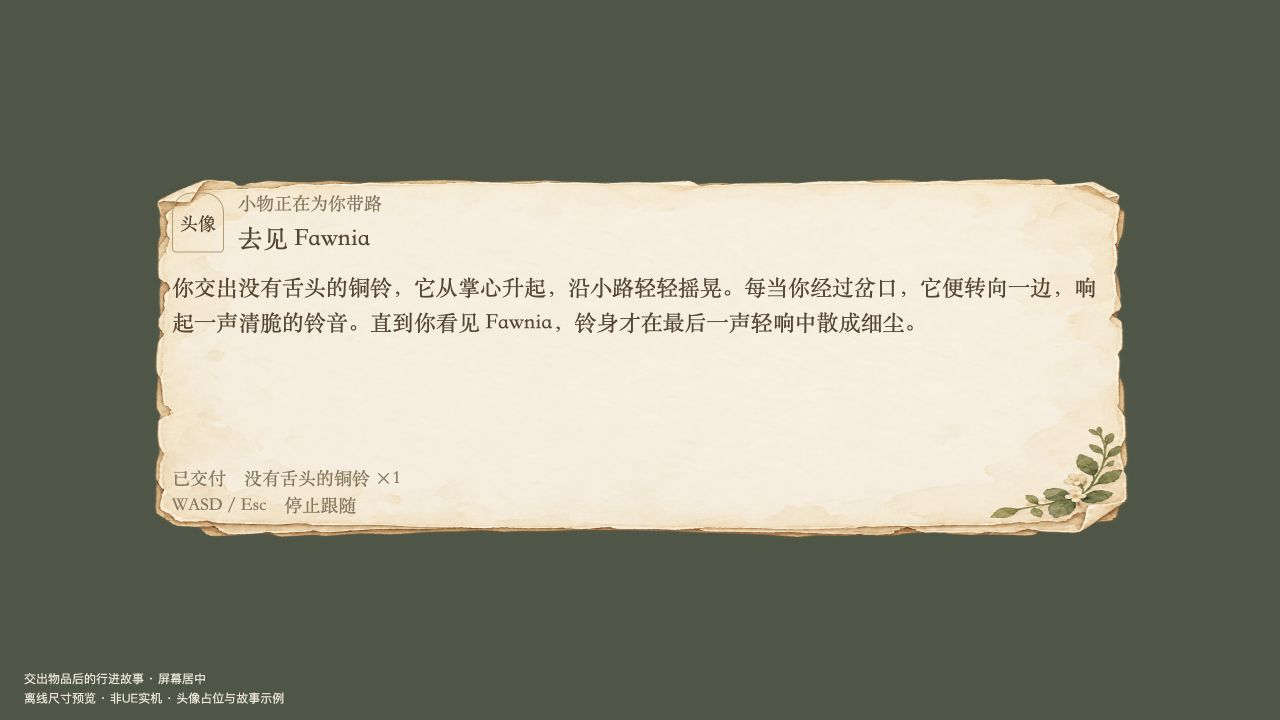
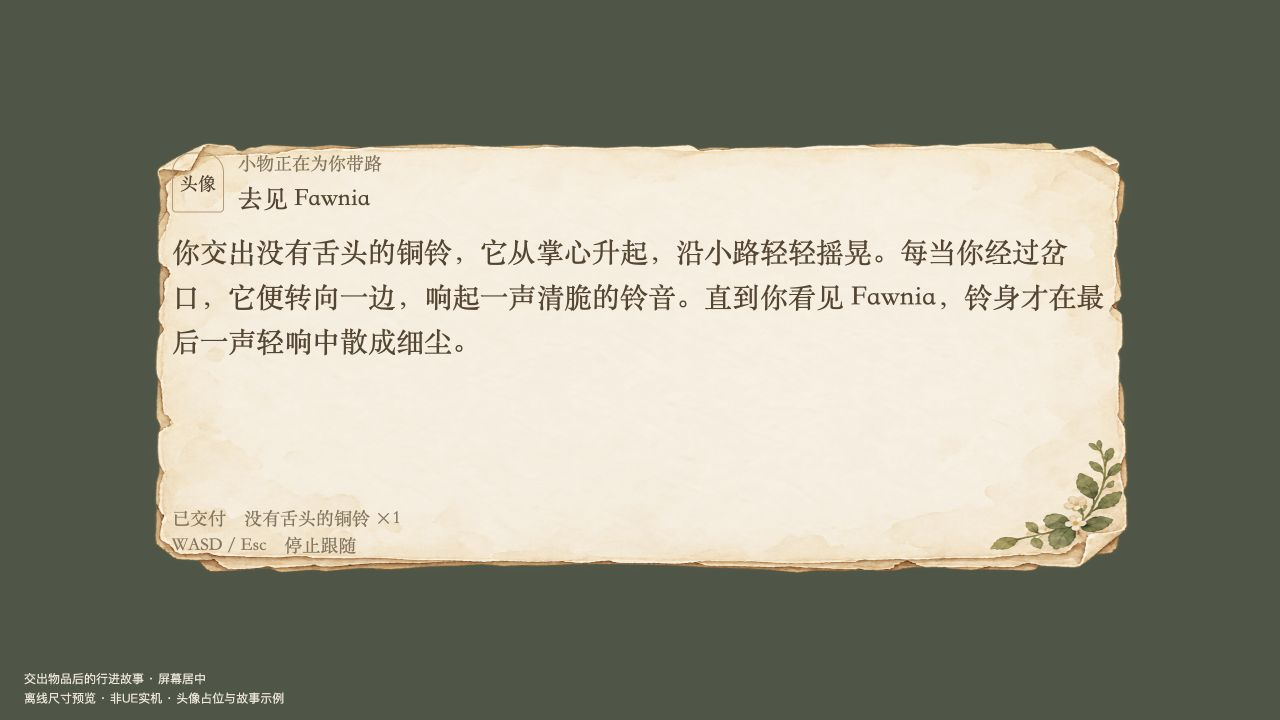
fix: enlarge centered item and travel narration to 28 point

Changed region(s): [[0.125, 0.1833, 0.9062, 0.4889], [0.0938, 0.5806, 0.9062, 0.7944], [0.125, 0.55, 0.1562, 0.6111]]

diff --git a/Docs/NPC_Travel_Centered_Preview.html b/Docs/NPC_Travel_Centered_Preview.html
@@ -1,1 +1,1 @@
-<!doctype html><html lang="zh-CN"><meta charset="utf-8"><meta name="viewport" content="width=device-width,initial-scale=1"><title>交付物品后的引路故事</title><style>*{box-sizing:border-box}body{margin:0;background:#4e5646;color:#57452f;font-family:"Songti SC",serif}.anchor{min-height:100dvh;padding:24px;display:flex;align-items:center;justify-content:center}.paper{width:min(1000px,100%);height:min(400px,calc(100dvh - 48px));padding:30px 32px 42px;background:url('../Content/UI/Textures/WoodlandPaper.png') center/100% 100%;display:flex;flex-direction:column}.head{display:flex;gap:14px;align-items:center;flex-shrink:0}.portrait{width:52px;height:60px;border:1px solid #ba9b70;border-radius:20px 20px 4px 4px;display:flex;align-items:center;justify-content:center;font-size:18px;flex-shrink:0}.role{font-size:18px;color:#87765b}.title{font-size:25px;margin-top:5px}.story{font-size:22px;line-height:1.6;overflow:auto;flex:1;min-height:0;margin:14px 0}.foot{font-size:18px;line-height:1.5;color:#87765b;flex-shrink:0}.note{position:absolute;bottom:12px;left:24px;color:#eee7d7;font:12px sans-serif;line-height:1.6;pointer-events:none}@media(max-width:747px){.paper{height:min(600px,calc(100dvh - 48px))}}</style><div class="anchor"><section class="paper"><header class="head"><div class="portrait">头像</div><div><div class="role">小物正在为你带路</div><div class="title">去见 Fawnia</div></div></header><p class="story">你交出没有舌头的铜铃，它从掌心升起，沿小路轻轻摇晃。每当你经过岔口，它便转向一边，响起一声清脆的铃音。直到你看见 Fawnia，铃身才在最后一声轻响中散成细尘。</p><footer class="foot">已交付　没有舌头的铜铃 ×1<br>WASD / Esc　停止跟随</footer></section></div><div class="note">交出物品后的行进故事 · 屏幕居中<br>离线尺寸预览 · 非UE实机 · 头像占位与故事示例</div></html>
+<!doctype html><html lang="zh-CN"><meta charset="utf-8"><meta name="viewport" content="width=device-width,initial-scale=1"><title>交付物品后的引路故事</title><style>*{box-sizing:border-box}body{margin:0;background:#4e5646;color:#57452f;font-family:"Songti SC",serif}.anchor{min-height:100dvh;padding:24px;display:flex;align-items:center;justify-content:center}.paper{width:min(1000px,100%);height:min(480px,calc(100dvh - 48px));padding:30px 32px 42px;background:url('../Content/UI/Textures/WoodlandPaper.png') center/100% 100%;display:flex;flex-direction:column}.head{display:flex;gap:14px;align-items:center;flex-shrink:0}.portrait{width:52px;height:60px;border:1px solid #ba9b70;border-radius:20px 20px 4px 4px;display:flex;align-items:center;justify-content:center;font-size:18px;flex-shrink:0}.role{font-size:18px;color:#87765b}.title{font-size:25px;margin-top:5px}.story{font-size:28px;line-height:1.6;overflow:auto;flex:1;min-height:0;margin:14px 0}.foot{font-size:18px;line-height:1.5;color:#87765b;flex-shrink:0}.note{position:absolute;bottom:12px;left:24px;color:#eee7d7;font:12px sans-serif;line-height:1.6;pointer-events:none}@media(max-width:747px){.paper{height:min(600px,calc(100dvh - 48px))}}</style><div class="anchor"><section class="paper"><header class="head"><div class="portrait">头像</div><div><div class="role">小物正在为你带路</div><div class="title">去见 Fawnia</div></div></header><p class="story">你交出没有舌头的铜铃，它从掌心升起，沿小路轻轻摇晃。每当你经过岔口，它便转向一边，响起一声清脆的铃音。直到你看见 Fawnia，铃身才在最后一声轻响中散成细尘。</p><footer class="foot">已交付　没有舌头的铜铃 ×1<br>WASD / Esc　停止跟随</footer></section></div><div class="note">交出物品后的行进故事 · 屏幕居中<br>离线尺寸预览 · 非UE实机 · 头像占位与故事示例</div></html>

diff --git a/Docs/Item_Emergence_Preview.html b/Docs/Item_Emergence_Preview.html
@@ -1,4 +1,4 @@
-<!doctype html><html lang="zh-CN"><meta charset="utf-8"><meta name="viewport" content="width=device-width,initial-scale=1"><title>物品涌现提示框</title><style>*{box-sizing:border-box}body{margin:0;background:#4e5646;color:#57452f;font-family:"Songti SC",serif}.note{position:absolute;bottom:16px;left:24px;right:24px;color:#eee7d7;font:13px sans-serif;line-height:1.6}.anchor{min-height:100dvh;padding:24px;display:flex;justify-content:center;align-items:center}.paper{width:min(960px,100%);padding:28px 32px 36px;background:url('../Content/UI/Textures/WoodlandPaper.png') center/100% 100%;height:auto}.heading{font-size:18px;font-weight:600;color:#77804d;line-height:1.5;margin:0 0 12px}.text{font-size:22px;line-height:1.5;white-space:pre-line;overflow-wrap:anywhere;margin:0}.surface{position:absolute;inset:0;pointer-events:none}.hint{color:#eee7d7;font-size:16px;text-align:center;margin:80px 24px 0}</style><div class="anchor"><section class="paper"><h1 class="heading">魔法书捎来一件小物</h1><p class="text">蘑菇散作星尘，魔法书将其中的火凝成了一件小物。
+<!doctype html><html lang="zh-CN"><meta charset="utf-8"><meta name="viewport" content="width=device-width,initial-scale=1"><title>物品涌现提示框</title><style>*{box-sizing:border-box}body{margin:0;background:#4e5646;color:#57452f;font-family:"Songti SC",serif}.note{position:absolute;bottom:16px;left:24px;right:24px;color:#eee7d7;font:13px sans-serif;line-height:1.6}.anchor{min-height:100dvh;padding:24px;display:flex;justify-content:center;align-items:center}.paper{width:min(960px,100%);padding:28px 32px 36px;background:url('../Content/UI/Textures/WoodlandPaper.png') center/100% 100%;height:auto}.heading{font-size:18px;font-weight:600;color:#77804d;line-height:1.5;margin:0 0 12px}.text{font-size:28px;line-height:1.5;white-space:pre-line;overflow-wrap:anywhere;margin:0}.surface{position:absolute;inset:0;pointer-events:none}.hint{color:#eee7d7;font-size:16px;text-align:center;margin:80px 24px 0}</style><div class="anchor"><section class="paper"><h1 class="heading">魔法书捎来一件小物</h1><p class="text">蘑菇散作星尘，魔法书将其中的火凝成了一件小物。
 获得：炉火纽扣 · 火5
 黄铜边缘始终温热，中央的小火苗偶尔探出头，仿佛还在等一件合身的外套。
 已收入背包 · 按 B 查看</p></section></div><div class="note">离线尺寸预览 · 非UE实机<br>本页展示“新物品名称 / 属性 / 描述”的涌现框；宽度随视口，框高随文字自然展开。</div></html>

diff --git a/Source/demo3_UE58/ForestNPCInteraction.cpp b/Source/demo3_UE58/ForestNPCInteraction.cpp
@@ -142,7 +142,7 @@ TSharedRef<SWidget> UForestNPCInteractionWidget::RebuildWidget()
      +SVerticalBox::Slot().AutoHeight()[Text(TEXT("小物正在为你带路"),10)]
      +SVerticalBox::Slot().AutoHeight().Padding(0,5)[SAssignNew(TravelTarget,STextBlock).Font(ForestUI::FinderFont(19)).ColorAndOpacity(ForestUI::Ink).AutoWrapText(true)]]]
   +SVerticalBox::Slot().FillHeight(1).Padding(0,14)
-   [SNew(SScrollBox)+SScrollBox::Slot()[SAssignNew(TravelStory,STextBlock).Font(ForestUI::FinderFont(16)).ColorAndOpacity(ForestUI::Ink).AutoWrapText(true)]]
+   [SNew(SScrollBox)+SScrollBox::Slot()[SAssignNew(TravelStory,STextBlock).Font(ForestUI::FinderFont(22)).ColorAndOpacity(ForestUI::Ink).AutoWrapText(true)]]
   +SVerticalBox::Slot().AutoHeight()[SAssignNew(TravelFee,STextBlock).Font(ForestUI::FinderFont(10)).ColorAndOpacity(ForestUI::Muted).AutoWrapText(true)]
   +SVerticalBox::Slot().AutoHeight().Padding(0,4,0,0)[Text(TEXT("WASD / Esc　停止跟随"),10)];
  TSharedRef<SWidget> DialoguePanel=SNew(SVerticalBox)
@@ -180,7 +180,7 @@ void UForestNPCInteractionWidget::NativeTick(const FGeometry& Geometry,float Del
  const FVector2D Size=Geometry.GetLocalSize();if(Size.X<=0 || Size.Y<=0)return;
  const float Limit=bFinderVisible?1100.f:Panel==EPanel::Travelling?1000.f:760.f;
  LayoutWidth=FMath::Max(1.f,FMath::Min(Limit,static_cast<float>(Size.X)-48.f));PanelFrame->SetWidthOverride(LayoutWidth);
- const float Height=Panel==EPanel::Travelling?(LayoutWidth<700.f?600.f:400.f):bFinderVisible?640.f:540.f;
+ const float Height=Panel==EPanel::Travelling?(LayoutWidth<700.f?600.f:480.f):bFinderVisible?640.f:540.f;
  PanelFrame->SetHeightOverride(Panel==EPanel::Notice?FOptionalSize():FOptionalSize(FMath::Max(1.f,FMath::Min(Height,static_cast<float>(Size.Y)-48.f))));
 }
 void UForestNPCInteractionWidget::ShowMessage(const FString& Name,const FString&,const FString& Hint)

diff --git a/Source/demo3_UE58/ForestHarvestMagic.cpp b/Source/demo3_UE58/ForestHarvestMagic.cpp
@@ -115,7 +115,7 @@ TSharedRef<SWidget> UForestHarvestNoticeWidget::RebuildWidget()
   [SNew(SForestPaperBorder).Padding(FMargin(32,28,32,36))
    [SNew(SVerticalBox)
     +SVerticalBox::Slot().AutoHeight()[SNew(STextBlock).Text(FText::FromString(TEXT("魔法书捎来一件小物"))).Font(HarvestMagic::Font(16,true)).ColorAndOpacity(HarvestMagic::Moss).AutoWrapText(true)]
-    +SVerticalBox::Slot().AutoHeight().Padding(0,12,0,0)[SAssignNew(Text,STextBlock).Font(HarvestMagic::Font(20)).ColorAndOpacity(HarvestMagic::Ink).AutoWrapText(true)]]]];
+    +SVerticalBox::Slot().AutoHeight().Padding(0,12,0,0)[SAssignNew(Text,STextBlock).Font(HarvestMagic::Font(26)).ColorAndOpacity(HarvestMagic::Ink).AutoWrapText(true)]]]];
 }
 void UForestHarvestNoticeWidget::NativeTick(const FGeometry& Geometry,float DeltaTime)
 {

diff --git a/CHANGELOG.md b/CHANGELOG.md
@@ -2,6 +2,16 @@
 
 本文件记录增量仓库每次提交上传的内容。最新更新放在最前面；每次上传前必须把本条记录与对应文件一起提交。验证状态应区分“本次验证”“历史记录”与“未验证”。
 
+## 2026-10-27-14：两张居中字条正文提高到28号
+
+- **目的 / 基线 / 前置**：回应用户正文仍小；基于main `54ddf94`，前置批次12/13。
+- **修改**：Source/demo3_UE58/ForestHarvestMagic.cpp、ForestNPCInteraction.cpp；Docs/Item_Emergence_Preview.html/.jpg、NPC_Travel_Centered_Preview.html/.jpg、HarvestMagic_2026-10-13.md、NPC_Finder_UI_2026-10-14.md；本记录。
+- **行为**：物品涌现/交付后的引路故事正文22→28，常规行进框高400→480；保留居中、大字不整体缩小、窄窗高度限制。其他界面和游戏逻辑不变。
+- **依赖 / 应用**：合并两份cpp并编译，沿用主题/PNG及前序声明，无地图/配置/存档变化。
+- **验证**：本次Mac UE5.8源码编译与链接成功；源码同步、差异检查；物品预览三尺寸样本在视口内，引路预览1280×720/800×600样例28px且完整可见；更新截图。
+- **未验证**：未开UE/PIE；实际DPI、移动阅读、长故事和极矮窗口仍待验收。HTML字号像素不等同于Slate物理像素。
+- **上传状态**：待上传，远程核对后补记。
+
 ## 2026-10-27-13：补记字条居中修订上传结果
 
 - **目的 / 基线 / 前置**：补记批次12，基于功能提交 `82ce2e0`。
